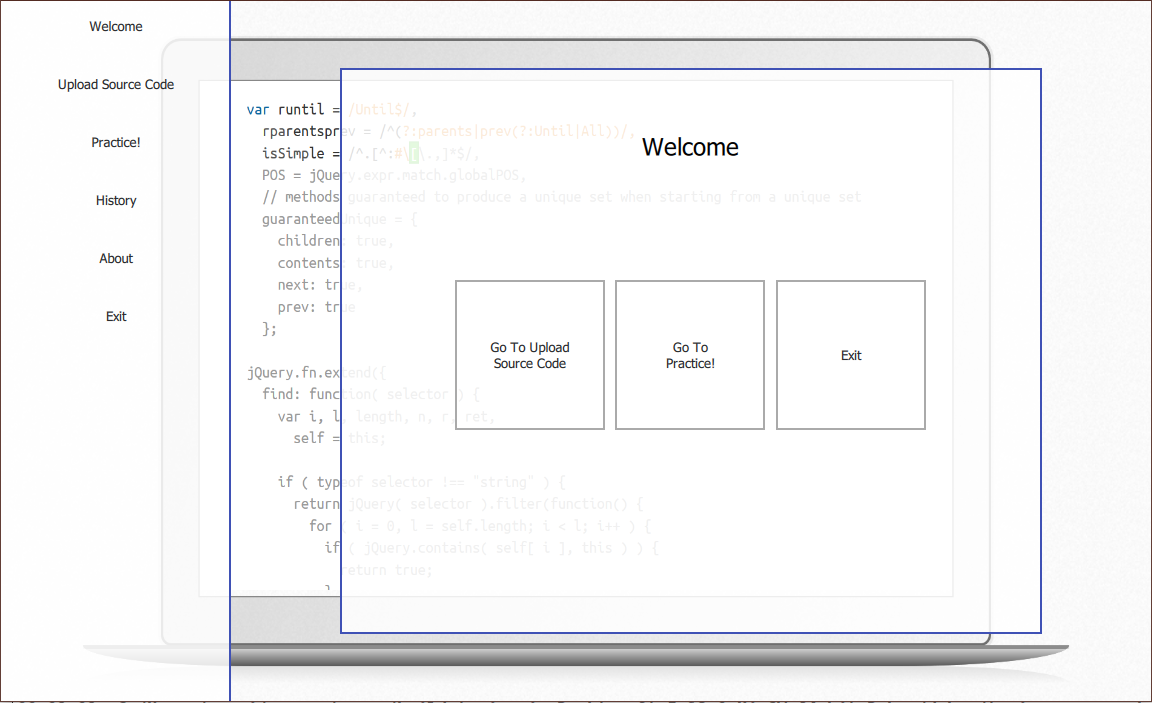
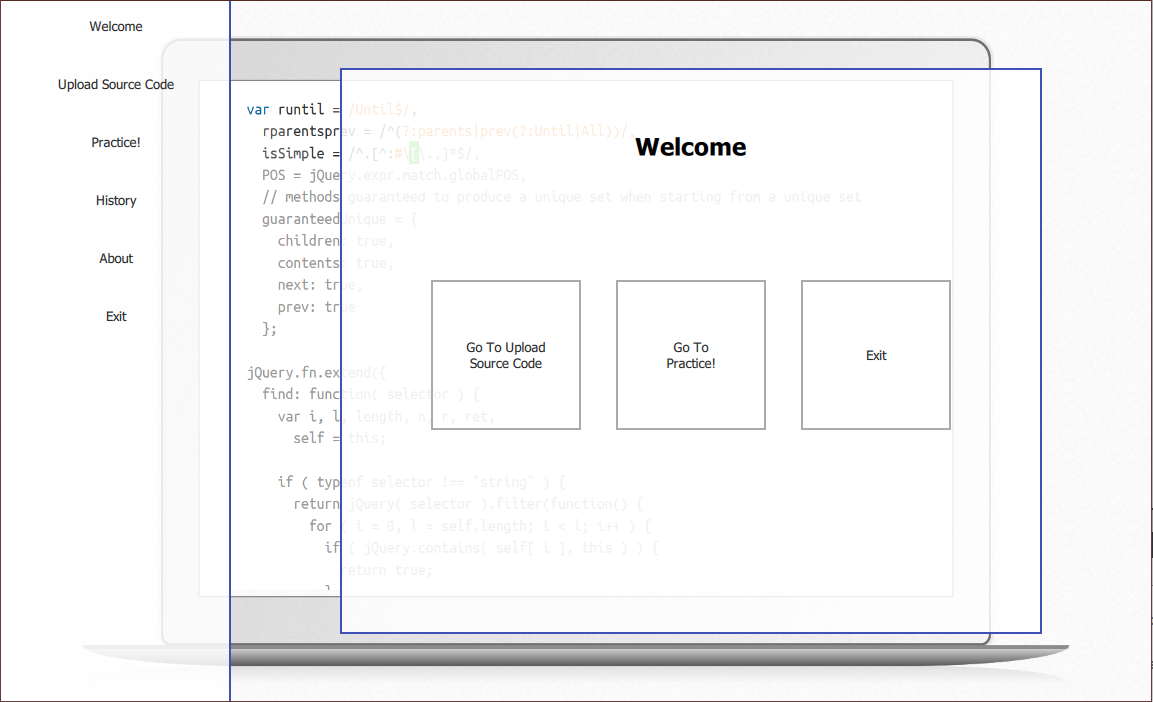
Cleanup UI

diff --git a/src/qml/PracticeAndResultPage.qml b/src/qml/PracticeAndResultPage.qml
@@ -32,6 +32,7 @@ Item {
         readonly property int baseHeight: 1051
         readonly property var timeDuration: [1, 2, 5, 10, 20];
 
+        property string currentPath;
         property bool isStarted: false;
         property bool isLoaded: false;
         property var files;
@@ -42,7 +43,6 @@ Item {
     Component.onCompleted: {
         typing.setTimeLabel(time);
         typing.setUserSpeedLabel(userSpeed)
-        file.initFile("", "", typing.getSavePath(), false)
         userProgress = typing.getUserProgress();
     }
 
@@ -61,6 +61,9 @@ Item {
 
     function init() {
         languageComboBox.currentIndex = 0;
+        internal.currentPath = typing.getSavePath();
+        currnetFolderPath.text = internal.currentPath;
+        file.initFile("", "", internal.currentPath, false);
         filter();
         initComponets();
         typing.initGlobalVarOfUserProgress();
@@ -161,13 +164,13 @@ Item {
             Item {
 
                 Column {
-                    id: column
                     anchors.topMargin: 8
                     anchors.fill: parent
                     spacing: 16
 
                     Text {
                         text: "Select practice text."
+                        font.bold: true
                         horizontalAlignment: Text.AlignHCenter
                         verticalAlignment: Text.AlignVCenter
                         anchors.horizontalCenter: parent.horizontalCenter
@@ -250,8 +253,50 @@ Item {
                         }
                     }
 
+                    Item {
+                        width: parent.width - parent.width * 0.16
+                        height: 60
+                        anchors.horizontalCenter: parent.horizontalCenter
+
+                        Row {
+                            height: parent.height
+
+                            Row {
+                                height: parent.height
+
+                                TButton {
+                                    height: parent.height
+                                    width: height
+                                    text: "<"
+                                    enabled: false
+                                }
+
+                                TButton {
+                                    height: parent.height
+                                    width: height
+                                    text: ">"
+                                    enabled: false
+                                }
+
+                                Item {
+                                    width: 32
+                                    height: parent.height
+                                }
+
+                                Text {
+                                    id: currnetFolderPath
+                                    text: qsTr(typing.getSavePath())
+                                    wrapMode: Text.WrapAnywhere
+                                    width: swipeView.width - swipeView.width * 0.16 - 180
+                                    verticalAlignment: Text.AlignVCenter
+                                    anchors.verticalCenter: parent.verticalCenter
+                                }
+                            }
+                        }
+                    }
+
                     Rectangle {
-                        height: parent.height - 250
+                        height: parent.height - 260
                         color: "#00000000"
                         anchors.horizontalCenter: parent.horizontalCenter
                         border.color: "#3f51b5"
@@ -285,7 +330,7 @@ Item {
                         }
                     }
 
-                    Column {
+                    Row {
                         anchors.horizontalCenter: parent.horizontalCenter
                         spacing: 16
 
@@ -336,13 +381,15 @@ Item {
             }
 
             Item {
+
                 Column {
-                    width: parent.width
-                    height: parent.height
+                    anchors.topMargin: 8
+                    anchors.fill: parent
                     spacing: 16
 
                     Text {
                         text: "Practice!"
+                        font.bold: true
                         horizontalAlignment: Text.AlignHCenter
                         verticalAlignment: Text.AlignVCenter
                         anchors.horizontalCenter: parent.horizontalCenter
@@ -438,7 +485,7 @@ Item {
                     }
 
                     Rectangle {
-                        height: (parent.height - 180) / 2
+                        height: (parent.height - 170) / 2
                         color: "#00000000"
                         anchors.horizontalCenter: parent.horizontalCenter
                         border.color: "#3f51b5"
@@ -485,8 +532,8 @@ Item {
 
                         TButton {
                             id: endButton
-                            height: 50
-                            width: 120
+                            height: 40
+                            width: 200
                             text: "End"
                             onClicked: end();
                         }
@@ -495,20 +542,22 @@ Item {
             }
 
             Item {
+
                 Column {
                     spacing: 16
-                    width: parent.width
-                    height: parent.height
+                    anchors.topMargin: 8
+                    anchors.fill: parent
 
                     Text {
                         text: "Your result"
+                        font.bold: true
                         anchors.horizontalCenter: parent.horizontalCenter
                         font.pixelSize: 24
                     }
 
                     // User result
                     ScrollView {
-                        height: parent.height - 120
+                        height: parent.height - 110
                         clip: true
                         anchors.horizontalCenter: parent.horizontalCenter
 
@@ -526,8 +575,8 @@ Item {
                     TButton {
                         anchors.horizontalCenter: parent.horizontalCenter
                         text: "finish"
-                        height: 50
-                        width: 120
+                        height: 40
+                        width: 200
                         onClicked: finish()
                     }
                 }

diff --git a/src/qml/WelcomePage.qml b/src/qml/WelcomePage.qml
@@ -38,12 +38,12 @@ Item {
         anchors.rightMargin: parent.width * 200 / internal.baseWidth
 
         Item {
-            id: element
             anchors.topMargin: 8
             anchors.fill: parent
 
             Text {
                 text: qsTr("Welcome")
+                font.bold: true
                 anchors.top: parent.top
                 anchors.topMargin: parent.height * 0.1
                 anchors.horizontalCenter: parent.horizontalCenter
@@ -53,13 +53,12 @@ Item {
             }
 
             Item  {
-                id: element1
                 anchors.fill: parent
 
                 Row {
                     anchors.verticalCenter: parent.verticalCenter
                     anchors.horizontalCenter: parent.horizontalCenter
-                    spacing: parent.width * 0.015
+                    spacing: parent.width * 0.05
 
                     T2Button {
                         id: uploadSourceCodeButton

diff --git a/src/qml/HistoryPage.qml b/src/qml/HistoryPage.qml
@@ -56,13 +56,14 @@ Item {
 
             Text {
                 text: "Your history"
+                font.bold: true
                 anchors.horizontalCenter: parent.horizontalCenter
                 font.pixelSize: 24
             }
 
             // User history
             Rectangle {
-                height: parent.height - 120
+                height: parent.height - 110
                 color: "#00000000"
                 border.width: 0
                 width: parent.width
@@ -93,7 +94,7 @@ Item {
                 // clear History button.
                 TButton {
                     text: "clear"
-                    height: 50
+                    height: 40
                     width: 200
                     onClicked: {
                         userHistory.clearHistory();

diff --git a/src/qml/AboutPage.qml b/src/qml/AboutPage.qml
@@ -115,7 +115,7 @@ Item {
                             Text {
                                 text: qsTr("Based on Qt 5.13.0\n\n" +
                                            "Authors:\nQusai Hroub <qusaihroub.r@gmail.com>\n\n" +
-                                           "Support:\n<support@trying.io> It doesn't really exists ):\n\n\n" +
+                                           "Support:\n<support@trying.io> It doesn't really exist ):\n\n\n" +
                                            "The program is provided AS IS with NO WARRANTY OF ANY KIND, INCLUDING THE WARRANTY OF DESIGN, MERCHANTABILITY AND FITNESS FOR A PARTICULAR PURPOSE.")
                                 wrapMode: Text.WordWrap
                                 width: parent.width

diff --git a/src/qml/UploadSourceCodePage.qml b/src/qml/UploadSourceCodePage.qml
@@ -169,6 +169,7 @@ Item {
 
                     Text {
                         text: qsTr("Upload Source Code")
+                        font.bold: true
                         anchors.horizontalCenter: parent.horizontalCenter
                         verticalAlignment: Text.AlignVCenter
                         horizontalAlignment: Text.AlignHCenter
@@ -233,6 +234,7 @@ Item {
 
                     Text {
                         text: qsTr("Save as")
+                        font.bold: true
                         anchors.horizontalCenter: parent.horizontalCenter
                         verticalAlignment: Text.AlignVCenter
                         horizontalAlignment: Text.AlignHCenter
